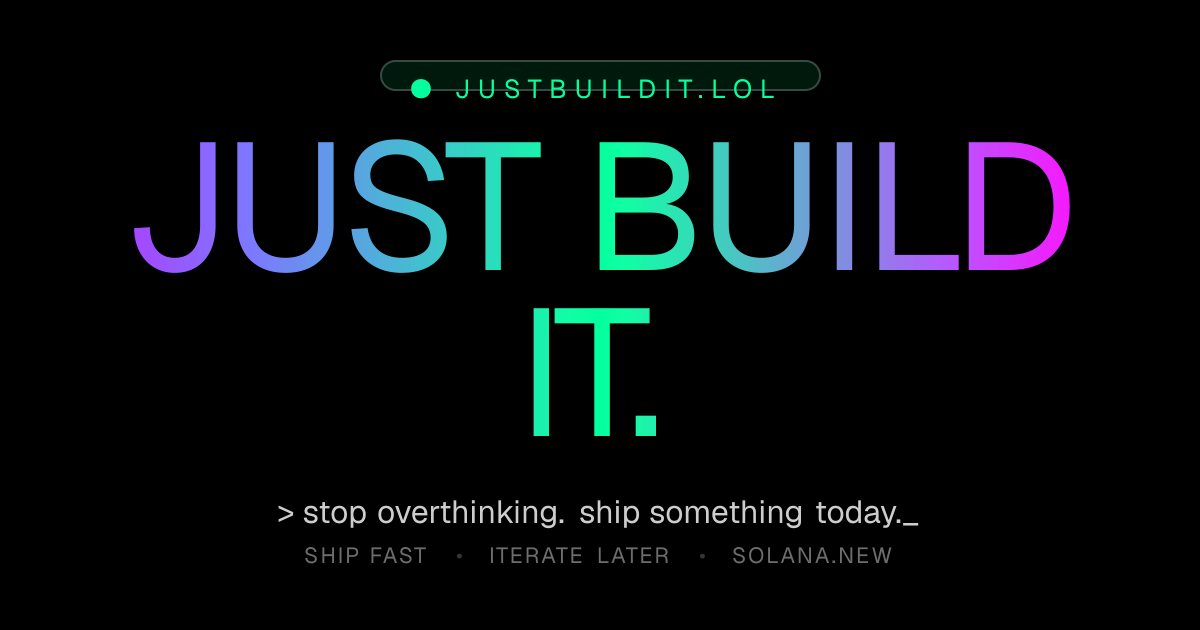
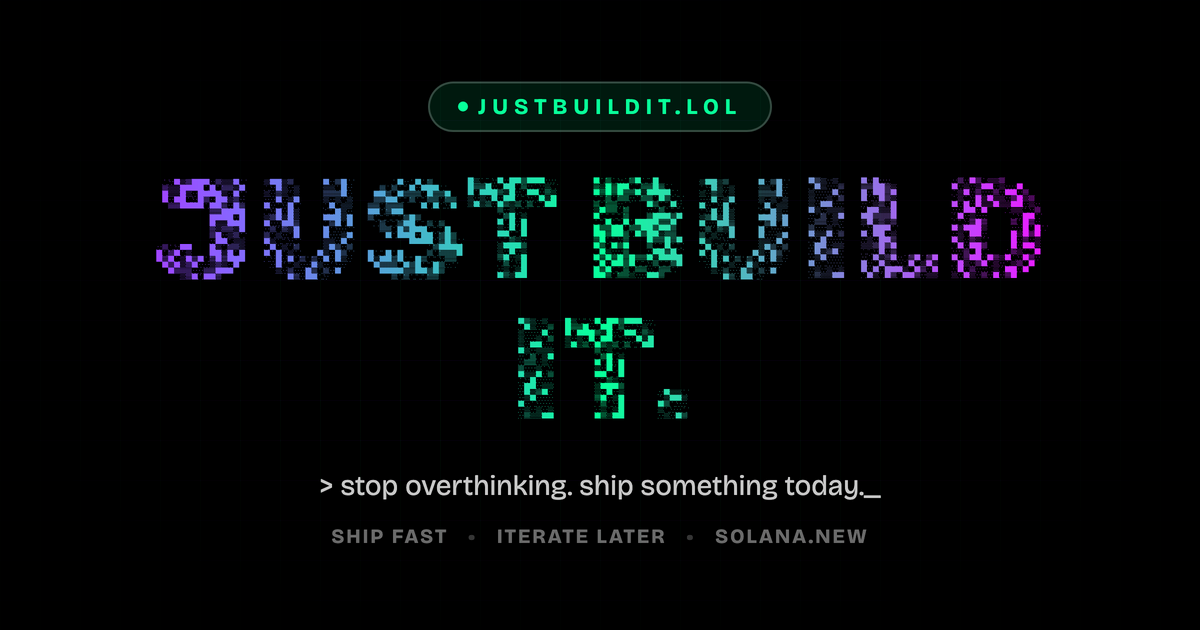
fonts: Rubik Pixels title + Bricolage Grotesque body (#2)

Changed region(s): [[0.0925, 0.0905, 0.8942, 0.4524], [0.2467, 0.754, 0.7708, 0.9048], [0.4317, 0.4825, 0.5858, 0.6937]]

diff --git a/scripts/og-render.html b/scripts/og-render.html
@@ -1,0 +1,92 @@
+<!DOCTYPE html>
+<html>
+<head>
+  <meta charset="utf-8" />
+  <link rel="preconnect" href="https://fonts.googleapis.com" />
+  <link rel="preconnect" href="https://fonts.gstatic.com" crossorigin />
+  <link href="https://fonts.googleapis.com/css2?family=Bricolage+Grotesque:opsz,wght@12..96,400;12..96,700;12..96,800&family=Rubik+Pixels&display=swap" rel="stylesheet" />
+  <style>
+    * { box-sizing: border-box; margin: 0; padding: 0; }
+    html, body { width: 1200px; height: 630px; overflow: hidden; background: #000; }
+    body {
+      display: flex;
+      flex-direction: column;
+      align-items: center;
+      justify-content: center;
+      font-family: "Bricolage Grotesque", system-ui, sans-serif;
+      color: #fff;
+      position: relative;
+    }
+    .grid {
+      position: absolute; inset: 0;
+      background-image:
+        linear-gradient(rgba(153,69,255,0.08) 1px, transparent 1px),
+        linear-gradient(90deg, rgba(20,241,149,0.08) 1px, transparent 1px);
+      background-size: 40px 40px;
+      opacity: 0.7;
+    }
+    .vignette {
+      position: absolute; inset: 0;
+      background: radial-gradient(ellipse at center, transparent 0%, rgba(0,0,0,0.85) 75%);
+    }
+    .content {
+      position: relative; z-index: 1;
+      display: flex; flex-direction: column; align-items: center; text-align: center;
+      padding: 40px 60px;
+    }
+    .pill {
+      display: inline-flex; align-items: center; gap: 10px;
+      padding: 10px 28px; border-radius: 999px;
+      border: 2px solid rgba(255,255,255,0.2);
+      background: rgba(20,241,149,0.1);
+      color: #14f195;
+      font-size: 22px; letter-spacing: 6px; text-transform: uppercase; font-weight: 700;
+      font-family: "Bricolage Grotesque", sans-serif;
+    }
+    .dot { width: 10px; height: 10px; border-radius: 50%; background: #14f195; }
+    h1 {
+      margin-top: 28px;
+      font-family: "Rubik Pixels", "Bricolage Grotesque", sans-serif;
+      font-weight: 400;
+      font-size: 148px;
+      line-height: 0.95;
+      letter-spacing: -2px;
+      background: linear-gradient(90deg, #9945ff 0%, #14f195 50%, #dc1fff 100%);
+      -webkit-background-clip: text;
+      background-clip: text;
+      color: transparent;
+    }
+    .sub {
+      margin-top: 28px;
+      font-size: 28px;
+      color: rgba(255,255,255,0.75);
+      font-family: "Bricolage Grotesque", sans-serif;
+      font-weight: 500;
+    }
+    .meta {
+      margin-top: 22px;
+      display: flex; gap: 20px;
+      font-size: 20px;
+      color: rgba(255,255,255,0.4);
+      letter-spacing: 2px;
+      text-transform: uppercase;
+      font-weight: 700;
+    }
+    .meta span.sep { color: rgba(255,255,255,0.2); }
+  </style>
+</head>
+<body>
+  <div class="grid"></div>
+  <div class="vignette"></div>
+  <div class="content">
+    <div class="pill"><span class="dot"></span>justbuildit.lol</div>
+    <h1>JUST BUILD<br/>IT.</h1>
+    <div class="sub">&gt; stop overthinking. ship something today._</div>
+    <div class="meta">
+      <span>ship fast</span><span class="sep">•</span>
+      <span>iterate later</span><span class="sep">•</span>
+      <span>solana.new</span>
+    </div>
+  </div>
+</body>
+</html>

diff --git a/app/layout.tsx b/app/layout.tsx
@@ -1,23 +1,26 @@
 import type { Metadata, Viewport } from "next";
-import { Geist, Geist_Mono } from "next/font/google";
+import { Bricolage_Grotesque, Rubik_Pixels } from "next/font/google";
 import Script from "next/script";
 import "./globals.css";
 
-const geistSans = Geist({
-  variable: "--font-geist-sans",
+const bricolage = Bricolage_Grotesque({
+  variable: "--font-bricolage",
   subsets: ["latin"],
+  display: "swap",
 });
 
-const geistMono = Geist_Mono({
-  variable: "--font-geist-mono",
+const rubikPixels = Rubik_Pixels({
+  variable: "--font-rubik-pixels",
   subsets: ["latin"],
+  weight: "400",
+  display: "swap",
 });
 
 const SITE_URL = "https://justbuildit.lol";
 const SITE_NAME = "just build it";
 const SITE_TAGLINE =
   "stop overthinking. ship something on Solana. → solana.new";
-const OG_IMAGE = "/images/opengraph.png?v=2";
+const OG_IMAGE = "/images/opengraph.png?v=3";
 // Hardcoded at build (static export). MILYSEC property justbuildit.lol.
 const GA_ID = process.env.NEXT_PUBLIC_GA_ID || "G-75Z5E0HRNC";
 
@@ -95,9 +98,9 @@ export default function RootLayout({
   return (
     <html
       lang="en"
-      className={`${geistSans.variable} ${geistMono.variable} h-full antialiased`}
+      className={`${bricolage.variable} ${rubikPixels.variable} h-full antialiased`}
     >
-      <body className="min-h-full flex flex-col bg-black text-white overflow-x-hidden">
+      <body className="min-h-full flex flex-col bg-black text-white overflow-x-hidden font-sans">
         {children}
         {gaEnabled && (
           <>

diff --git a/app/globals.css b/app/globals.css
@@ -11,15 +11,19 @@
 @theme inline {
   --color-background: var(--background);
   --color-foreground: var(--foreground);
-  --font-sans: var(--font-geist-sans);
-  --font-mono: var(--font-geist-mono);
+  --font-sans: var(--font-bricolage), system-ui, sans-serif;
+  --font-title: var(--font-rubik-pixels), var(--font-bricolage), system-ui, sans-serif;
 }
 
 html,
 body {
   background: var(--background);
   color: var(--foreground);
-  font-family: var(--font-geist-sans), system-ui, sans-serif;
+  font-family: var(--font-bricolage), system-ui, sans-serif;
+}
+
+.font-title {
+  font-family: var(--font-rubik-pixels), var(--font-bricolage), system-ui, sans-serif;
 }
 
 @keyframes gradient-shift {

diff --git a/app/page.tsx b/app/page.tsx
@@ -114,7 +114,7 @@ export default function Home() {
           live · justbuildit.lol
         </div>
 
-        <h1 className="font-black leading-[0.85] tracking-tighter text-[clamp(4rem,18vw,16rem)]">
+        <h1 className="font-title font-normal leading-[0.9] tracking-tight text-[clamp(3.5rem,16vw,14rem)]">
           <span className="block animated-gradient">JUST</span>
           <span className="block animated-gradient" style={{ animationDelay: "1s" }}>
             BUILD
